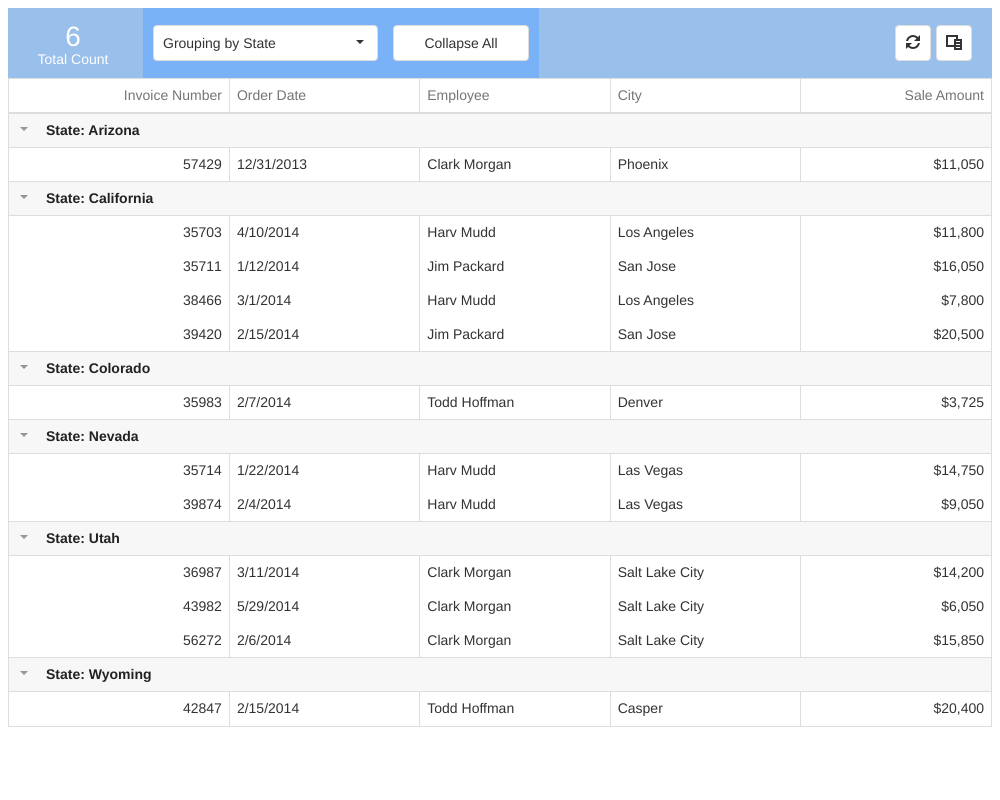
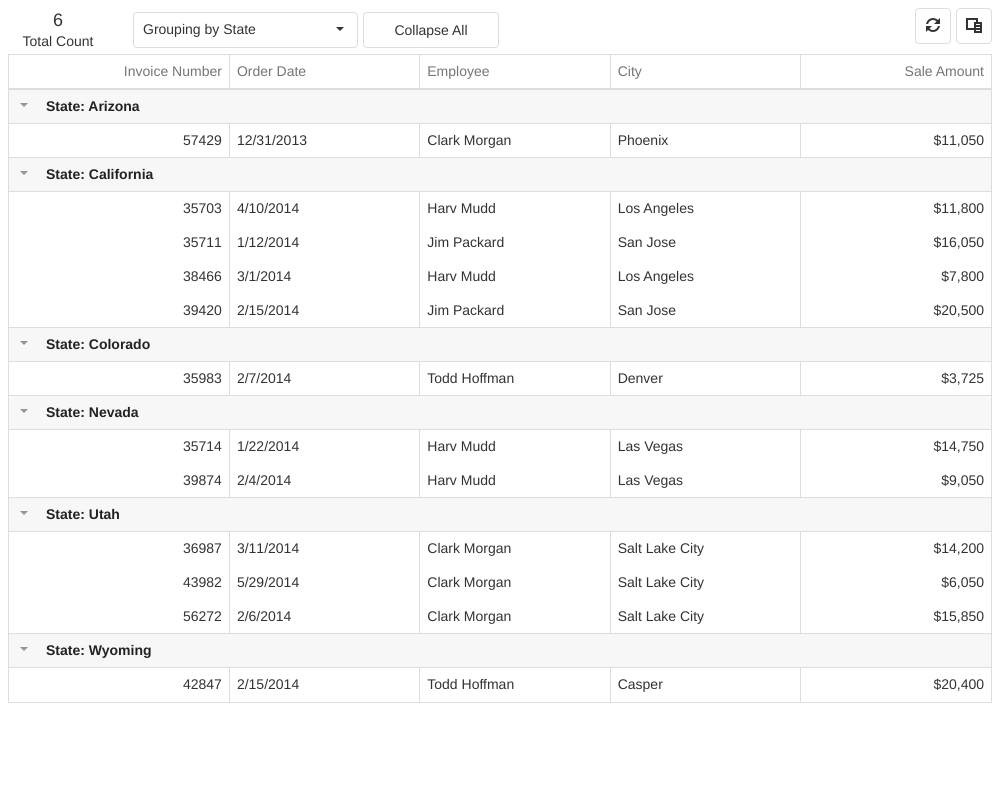
🎨 Fluent: Redesign custom toolbar demo (#2900)

diff --git a/JSDemos/Demos/DataGrid/ToolbarCustomization/Vue/App.vue b/JSDemos/Demos/DataGrid/ToolbarCustomization/Vue/App.vue
@@ -52,8 +52,8 @@
     </DxToolbar>
     <template #totalCountTemplate>
       <div class="informer">
-        <h2 class="count">{{ totalCount }}</h2>
-        <span class="name">Total Count</span>
+        <div class="count">{{ totalCount }}</div>
+        <span>Total Count</span>
       </div>
     </template>
     <template #groupingTemplate>
@@ -134,48 +134,16 @@ const refreshDataGrid = () => {
 </script>
 <style scoped>
 
-.dx-datagrid-header-panel {
-  padding: 0;
-  background-color: rgba(85, 149, 222, 0.6);
-}
-
-.dx-datagrid-header-panel .dx-toolbar {
-  margin: 0;
-  padding-right: 20px;
-  background-color: transparent;
-}
-
-.dx-datagrid-header-panel .dx-toolbar-items-container {
-  height: 70px;
-}
-
-.dx-datagrid-header-panel .dx-toolbar-before .dx-toolbar-item:not(:first-child) {
-  background-color: rgba(103, 171, 255, 0.6);
-}
-
-.dx-datagrid-header-panel .dx-toolbar-before .dx-toolbar-item:last-child {
-  padding-right: 10px;
-}
-
-.dx-datagrid-header-panel .dx-selectbox {
-  margin: auto 10px;
-}
-
-.dx-datagrid-header-panel .dx-button {
-  margin: auto 0;
-}
-
 .informer {
-  height: 70px;
-  width: 130px;
+  display: grid;
+  width: 120px;
+  grid-template-columns: 100%;
+  padding-right: 20px;
   text-align: center;
-  color: #fff;
 }
 
 .count {
-  padding-top: 15px;
-  line-height: 27px;
-  font-size: 28px;
-  margin: 0;
+  font-size: 18px;
+  font-weight: 500;
 }
 </style>

diff --git a/MVCDemos/Content/DemosStyles/DataGrid/ToolbarCustomization.css b/MVCDemos/Content/DemosStyles/DataGrid/ToolbarCustomization.css
@@ -1,46 +1,12 @@
-#gridContainer .dx-datagrid-header-panel {
-    padding: 0;
-    background-color: rgba(85, 149, 222, 0.6);
-}
-
-#gridContainer .dx-datagrid-header-panel .dx-toolbar {
-    margin: 0;
+#gridContainer .informer {
+    display: grid;
+    width: 120px;
+    grid-template-columns: 100%;
     padding-right: 20px;
-    background-color: transparent;
-}
-
-#gridContainer .dx-datagrid-header-panel .dx-toolbar-items-container  {
-    height: 70px;
-}
-
-#gridContainer .dx-datagrid-header-panel .dx-toolbar-before .dx-toolbar-item:not(:first-child) {
-    background-color: rgba(103, 171, 255, 0.6);
-}
-
-#gridContainer .dx-datagrid-header-panel .dx-toolbar-before .dx-toolbar-item:last-child {
-    padding-right: 10px;
-}
-
-#gridContainer .dx-datagrid-header-panel .dx-selectbox {
-    margin: auto 10px;
-}
-
-#gridContainer .dx-datagrid-header-panel .dx-button {
-     margin: auto 0;
-}
-
-#gridContainer .informer {
-    height: 70px;
-    width: 130px;
     text-align: center;
-    color: #fff;
 }
 
 #gridContainer .count {
-    padding-top: 15px;
-    line-height: 27px;
-    font-size: 28px;
-    margin: 0;
-    font-weight: normal;
-    font-family: "Helvetica Neue", "Segoe UI", Helvetica, Verdana, sans-serif;
+    font-size: 18px;
+    font-weight: 500;
 }

diff --git a/NetCoreDemos/wwwroot/css/DemosStyles/DataGrid/ToolbarCustomization.css b/NetCoreDemos/wwwroot/css/DemosStyles/DataGrid/ToolbarCustomization.css
@@ -1,46 +1,12 @@
-#gridContainer .dx-datagrid-header-panel {
-    padding: 0;
-    background-color: rgba(85, 149, 222, 0.6);
-}
-
-#gridContainer .dx-datagrid-header-panel .dx-toolbar {
-    margin: 0;
+#gridContainer .informer {
+    display: grid;
+    width: 120px;
+    grid-template-columns: 100%;
     padding-right: 20px;
-    background-color: transparent;
-}
-
-#gridContainer .dx-datagrid-header-panel .dx-toolbar-items-container  {
-    height: 70px;
-}
-
-#gridContainer .dx-datagrid-header-panel .dx-toolbar-before .dx-toolbar-item:not(:first-child) {
-    background-color: rgba(103, 171, 255, 0.6);
-}
-
-#gridContainer .dx-datagrid-header-panel .dx-toolbar-before .dx-toolbar-item:last-child {
-    padding-right: 10px;
-}
-
-#gridContainer .dx-datagrid-header-panel .dx-selectbox {
-    margin: auto 10px;
-}
-
-#gridContainer .dx-datagrid-header-panel .dx-button {
-     margin: auto 0;
-}
-
-#gridContainer .informer {
-    height: 70px;
-    width: 130px;
     text-align: center;
-    color: #fff;
 }
 
 #gridContainer .count {
-    padding-top: 15px;
-    line-height: 27px;
-    font-size: 28px;
-    margin: 0;
-    font-weight: normal;
-    font-family: "Helvetica Neue", "Segoe UI", Helvetica, Verdana, sans-serif;
+    font-size: 18px;
+    font-weight: 500;
 }

diff --git a/JSDemos/Demos/DataGrid/ToolbarCustomization/Angular/app/app.component.css b/JSDemos/Demos/DataGrid/ToolbarCustomization/Angular/app/app.component.css
@@ -1,44 +1,12 @@
-::ng-deep #gridContainer .dx-datagrid-header-panel {
-  padding: 0;
-  background-color: rgba(85, 149, 222, 0.6);
-}
-
-::ng-deep #gridContainer .dx-datagrid-header-panel .dx-toolbar {
-  margin: 0;
-  padding-right: 20px;
-  background-color: transparent;
-}
-
-::ng-deep #gridContainer .dx-datagrid-header-panel .dx-toolbar-items-container {
-  height: 70px;
-}
-
-::ng-deep #gridContainer .dx-datagrid-header-panel .dx-toolbar-before .dx-toolbar-item:not(:first-child) {
-  background-color: rgba(103, 171, 255, 0.6);
-}
-
-::ng-deep #gridContainer .dx-datagrid-header-panel .dx-toolbar-before .dx-toolbar-item:last-child {
-  padding-right: 10px;
-}
-
-::ng-deep #gridContainer .dx-datagrid-header-panel .dx-selectbox {
-  margin: auto 10px;
-}
-
-::ng-deep #gridContainer .dx-datagrid-header-panel .dx-button {
-  margin: auto 0;
-}
-
 ::ng-deep #gridContainer .informer {
-  height: 70px;
-  width: 130px;
+  display: grid;
+  width: 120px;
+  grid-template-columns: 100%;
+  padding-right: 20px;
   text-align: center;
-  color: #fff;
 }
 
 ::ng-deep #gridContainer .count {
-  padding-top: 15px;
-  line-height: 27px;
-  font-size: 28px;
-  margin: 0;
+  font-size: 18px;
+  font-weight: 500;
 }

diff --git a/JSDemos/Demos/DataGrid/ToolbarCustomization/jQuery/styles.css b/JSDemos/Demos/DataGrid/ToolbarCustomization/jQuery/styles.css
@@ -1,44 +1,12 @@
-#gridContainer .dx-datagrid-header-panel {
-  padding: 0;
-  background-color: rgba(85, 149, 222, 0.6);
-}
-
-#gridContainer .dx-datagrid-header-panel .dx-toolbar {
-  margin: 0;
-  padding-right: 20px;
-  background-color: transparent;
-}
-
-#gridContainer .dx-datagrid-header-panel .dx-toolbar-items-container {
-  height: 70px;
-}
-
-#gridContainer .dx-datagrid-header-panel .dx-toolbar-before .dx-toolbar-item:not(:first-child) {
-  background-color: rgba(103, 171, 255, 0.6);
-}
-
-#gridContainer .dx-datagrid-header-panel .dx-toolbar-before .dx-toolbar-item:last-child {
-  padding-right: 10px;
-}
-
-#gridContainer .dx-datagrid-header-panel .dx-selectbox {
-  margin: auto 10px;
-}
-
-#gridContainer .dx-datagrid-header-panel .dx-button {
-  margin: auto 0;
-}
-
 #gridContainer .informer {
-  height: 70px;
-  width: 130px;
+  display: grid;
+  width: 120px;
+  grid-template-columns: 100%;
+  padding-right: 20px;
   text-align: center;
-  color: #fff;
 }
 
 #gridContainer .count {
-  padding-top: 15px;
-  line-height: 27px;
-  font-size: 28px;
-  margin: 0;
+  font-size: 18px;
+  font-weight: 500;
 }

diff --git a/JSDemos/Demos/DataGrid/ToolbarCustomization/React/styles.css b/JSDemos/Demos/DataGrid/ToolbarCustomization/React/styles.css
@@ -1,44 +1,12 @@
-
-.dx-datagrid-header-panel {
-  padding: 0;
-  background-color: rgba(85, 149, 222, 0.6);
-}
-
-.dx-datagrid-header-panel .dx-toolbar {
-  margin: 0;
-  padding-right: 20px;
-  background-color: transparent;
-}
-
-.dx-datagrid-header-panel .dx-toolbar-items-container {
-  height: 70px;
-}
-
-.dx-datagrid-header-panel .dx-toolbar-before .dx-toolbar-item:not(:first-child) {
-  background-color: rgba(103, 171, 255, 0.6);
-}
-
-.dx-datagrid-header-panel .dx-toolbar-before .dx-toolbar-item:last-child {
-  padding-right: 10px;
-}
-
-.dx-datagrid-header-panel .dx-selectbox {
-  margin: auto 10px;
-}
-
-.dx-datagrid-header-panel .dx-button {
-  margin: auto 0;
-}
-
 .informer {
-  height: 70px;
-  width: 130px;
+  display: grid;
+  width: 120px;
+  grid-template-columns: 100%;
+  padding-right: 20px;
   text-align: center;
-  color: #fff;
 }
 
 .count {
-  padding-top: 15px;
-  line-height: 27px;
-  margin: 0;
+  font-size: 18px;
+  font-weight: 500;
 }

diff --git a/JSDemos/Demos/DataGrid/ToolbarCustomization/jQuery/index.js b/JSDemos/Demos/DataGrid/ToolbarCustomization/jQuery/index.js
@@ -32,11 +32,10 @@ $(() => {
             return $('<div>')
               .addClass('informer')
               .append(
-                $('<h2>')
+                $('<div>')
                   .addClass('count')
                   .text(getGroupCount('CustomerStoreState')),
                 $('<span>')
-                  .addClass('name')
                   .text('Total Count'),
               );
           },

diff --git a/JSDemos/Demos/DataGrid/ToolbarCustomization/React/App.js b/JSDemos/Demos/DataGrid/ToolbarCustomization/React/App.js
@@ -62,8 +62,8 @@ const App = () => {
       <Toolbar>
         <Item location="before">
           <div className="informer">
-            <h2 className="count">{totalCount}</h2>
-            <span className="name">Total Count</span>
+            <div className="count">{totalCount}</div>
+            <span>Total Count</span>
           </div>
         </Item>
         <Item location="before">

diff --git a/JSDemos/Demos/DataGrid/ToolbarCustomization/Angular/app/app.component.html b/JSDemos/Demos/DataGrid/ToolbarCustomization/Angular/app/app.component.html
@@ -26,8 +26,8 @@
   <dxo-toolbar>
     <dxi-item location="before">
       <div *dxTemplate class="informer">
-        <h2 class="count">{{ totalCount }}</h2>
-        <span class="name">Total Count</span>
+        <div class="count">{{ totalCount }}</div>
+        <span>Total Count</span>
       </div>
     </dxi-item>
     <dxi-item location="before">
